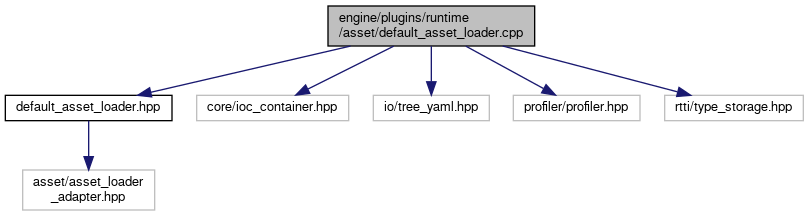
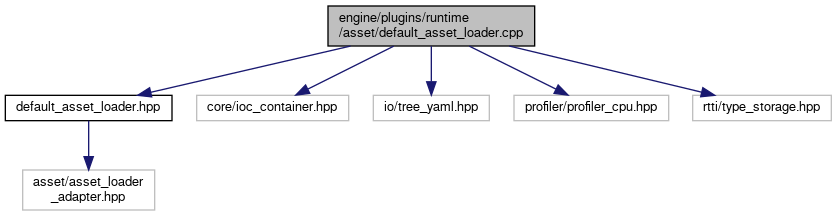
deploy: e94d178219d3c3b8b441206e57730aab20fbf8d1

diff --git a/assimp__importer_8cpp.html b/assimp__importer_8cpp.html
@@ -75,7 +75,7 @@ $(function() {
 <code>#include &quot;core/data.hpp&quot;</code><br />
 <code>#include &quot;core/log.hpp&quot;</code><br />
 <code>#include &quot;math/math_utils3d.hpp&quot;</code><br />
-<code>#include &quot;profiler/profiler.hpp&quot;</code><br />
+<code>#include &quot;profiler/profiler_cpu.hpp&quot;</code><br />
 <code>#include &lt;cassert&gt;</code><br />
 <code>#include &lt;cstring&gt;</code><br />
 <code>#include &lt;vector&gt;</code><br />
@@ -84,15 +84,15 @@ Include dependency graph for assimp_importer.cpp:</div>
 <div class="dyncontent">
 <div class="center"><img src="assimp__importer_8cpp__incl.png" border="0" usemap="#aengine_2plugins_2assimp_2assimp__importer_8cpp" alt=""/></div>
 <map name="aengine_2plugins_2assimp_2assimp__importer_8cpp" id="aengine_2plugins_2assimp_2assimp__importer_8cpp">
-<area shape="rect" title=" " alt="" coords="1187,5,1338,47"/>
+<area shape="rect" title=" " alt="" coords="1195,5,1346,47"/>
 <area shape="rect" href="assimp__importer_8hpp.html" title=" " alt="" coords="698,95,841,121"/>
 <area shape="rect" title=" " alt="" coords="865,95,965,121"/>
 <area shape="rect" title=" " alt="" coords="989,95,1081,121"/>
 <area shape="rect" title=" " alt="" coords="1105,95,1258,121"/>
-<area shape="rect" title=" " alt="" coords="1282,95,1409,121"/>
-<area shape="rect" title=" " alt="" coords="1433,95,1498,121"/>
-<area shape="rect" title=" " alt="" coords="1523,95,1584,121"/>
-<area shape="rect" title=" " alt="" coords="1608,95,1667,121"/>
+<area shape="rect" title=" " alt="" coords="1283,95,1437,121"/>
+<area shape="rect" title=" " alt="" coords="1461,95,1526,121"/>
+<area shape="rect" title=" " alt="" coords="1551,95,1612,121"/>
+<area shape="rect" title=" " alt="" coords="1636,95,1695,121"/>
 <area shape="rect" href="assimp__import__data_8hpp.html" title=" " alt="" coords="135,169,297,196"/>
 <area shape="rect" title=" " alt="" coords="322,169,459,196"/>
 <area shape="rect" title=" " alt="" coords="483,169,607,196"/>

diff --git a/assimp__asset__loader_8cpp.html b/assimp__asset__loader_8cpp.html
@@ -81,7 +81,7 @@ $(function() {
 <code>#include &quot;mesh/mesh_builder.hpp&quot;</code><br />
 <code>#include &quot;mesh/mesh_manager.hpp&quot;</code><br />
 <code>#include &quot;platform/file_system.hpp&quot;</code><br />
-<code>#include &quot;profiler/profiler.hpp&quot;</code><br />
+<code>#include &quot;profiler/profiler_cpu.hpp&quot;</code><br />
 <code>#include &lt;cassert&gt;</code><br />
 <code>#include &lt;cstring&gt;</code><br />
 <code>#include &lt;vector&gt;</code><br />
@@ -101,10 +101,10 @@ Include dependency graph for assimp_asset_loader.cpp:</div>
 <area shape="rect" title=" " alt="" coords="1607,95,1761,121"/>
 <area shape="rect" title=" " alt="" coords="1785,95,1956,121"/>
 <area shape="rect" title=" " alt="" coords="1980,95,2143,121"/>
-<area shape="rect" title=" " alt="" coords="2167,95,2294,121"/>
-<area shape="rect" title=" " alt="" coords="2318,95,2383,121"/>
-<area shape="rect" title=" " alt="" coords="2408,95,2469,121"/>
-<area shape="rect" title=" " alt="" coords="2493,95,2552,121"/>
+<area shape="rect" title=" " alt="" coords="2167,95,2321,121"/>
+<area shape="rect" title=" " alt="" coords="2345,95,2410,121"/>
+<area shape="rect" title=" " alt="" coords="2435,95,2496,121"/>
+<area shape="rect" title=" " alt="" coords="2520,95,2579,121"/>
 <area shape="rect" title=" " alt="" coords="97,169,229,211"/>
 <area shape="rect" title=" " alt="" coords="253,177,355,203"/>
 <area shape="rect" title=" " alt="" coords="379,177,479,203"/>

diff --git a/freetype__asset__loader_8cpp.html b/freetype__asset__loader_8cpp.html
@@ -75,7 +75,7 @@ $(function() {
 <code>#include &quot;core/ioc_container.hpp&quot;</code><br />
 <code>#include &quot;<a class="el" href="freetype__font_8hpp_source.html">freetype_font.hpp</a>&quot;</code><br />
 <code>#include &quot;<a class="el" href="freetype__import__data_8hpp_source.html">freetype_import_data.hpp</a>&quot;</code><br />
-<code>#include &quot;profiler/profiler.hpp&quot;</code><br />
+<code>#include &quot;profiler/profiler_cpu.hpp&quot;</code><br />
 </div><div class="textblock"><div class="dynheader">
 Include dependency graph for freetype_asset_loader.cpp:</div>
 <div class="dyncontent">
@@ -86,7 +86,7 @@ Include dependency graph for freetype_asset_loader.cpp:</div>
 <area shape="rect" title=" " alt="" coords="406,95,558,121"/>
 <area shape="rect" href="freetype__font_8hpp.html" title=" " alt="" coords="583,95,704,121"/>
 <area shape="rect" href="freetype__import__data_8hpp.html" title=" " alt="" coords="728,95,895,121"/>
-<area shape="rect" title=" " alt="" coords="919,95,1045,121"/>
+<area shape="rect" title=" " alt="" coords="919,95,1074,121"/>
 <area shape="rect" title=" " alt="" coords="5,169,137,211"/>
 <area shape="rect" title=" " alt="" coords="162,177,253,203"/>
 <area shape="rect" title=" " alt="" coords="277,177,415,203"/>

diff --git a/image__asset__loader_8cpp.html b/image__asset__loader_8cpp.html
@@ -73,7 +73,7 @@ $(function() {
 <div class="contents">
 <div class="textblock"><code>#include &quot;<a class="el" href="image__asset__loader_8hpp_source.html">image_asset_loader.hpp</a>&quot;</code><br />
 <code>#include &quot;<a class="el" href="image__import__data_8hpp_source.html">image_import_data.hpp</a>&quot;</code><br />
-<code>#include &quot;profiler/profiler.hpp&quot;</code><br />
+<code>#include &quot;profiler/profiler_cpu.hpp&quot;</code><br />
 </div><div class="textblock"><div class="dynheader">
 Include dependency graph for image_asset_loader.cpp:</div>
 <div class="dyncontent">
@@ -82,7 +82,7 @@ Include dependency graph for image_asset_loader.cpp:</div>
 <area shape="rect" title=" " alt="" coords="274,5,477,47"/>
 <area shape="rect" href="image__asset__loader_8hpp.html" title=" " alt="" coords="110,95,273,121"/>
 <area shape="rect" href="image__import__data_8hpp.html" title=" " alt="" coords="297,95,453,121"/>
-<area shape="rect" title=" " alt="" coords="477,95,604,121"/>
+<area shape="rect" title=" " alt="" coords="478,95,633,121"/>
 <area shape="rect" title=" " alt="" coords="5,169,137,211"/>
 <area shape="rect" title=" " alt="" coords="161,177,264,203"/>
 <area shape="rect" title=" " alt="" coords="309,169,442,211"/>

diff --git a/default__asset__loader_8cpp.html b/default__asset__loader_8cpp.html
@@ -74,7 +74,7 @@ $(function() {
 <div class="textblock"><code>#include &quot;<a class="el" href="default__asset__loader_8hpp_source.html">default_asset_loader.hpp</a>&quot;</code><br />
 <code>#include &quot;core/ioc_container.hpp&quot;</code><br />
 <code>#include &quot;io/tree_yaml.hpp&quot;</code><br />
-<code>#include &quot;profiler/profiler.hpp&quot;</code><br />
+<code>#include &quot;profiler/profiler_cpu.hpp&quot;</code><br />
 <code>#include &quot;rtti/type_storage.hpp&quot;</code><br />
 </div><div class="textblock"><div class="dynheader">
 Include dependency graph for default_asset_loader.cpp:</div>
@@ -85,8 +85,8 @@ Include dependency graph for default_asset_loader.cpp:</div>
 <area shape="rect" href="default__asset__loader_8hpp.html" title=" " alt="" coords="5,95,172,121"/>
 <area shape="rect" title=" " alt="" coords="197,95,349,121"/>
 <area shape="rect" title=" " alt="" coords="373,95,489,121"/>
-<area shape="rect" title=" " alt="" coords="513,95,640,121"/>
-<area shape="rect" title=" " alt="" coords="665,95,803,121"/>
+<area shape="rect" title=" " alt="" coords="514,95,669,121"/>
+<area shape="rect" title=" " alt="" coords="693,95,831,121"/>
 <area shape="rect" title=" " alt="" coords="23,169,155,211"/>
 </map>
 </div>

diff --git a/wav__asset__loader_8cpp.html b/wav__asset__loader_8cpp.html
@@ -73,7 +73,7 @@ $(function() {
 <div class="contents">
 <div class="textblock"><code>#include &quot;<a class="el" href="wav__asset__loader_8hpp_source.html">wav_asset_loader.hpp</a>&quot;</code><br />
 <code>#include &quot;<a class="el" href="wav__import__data_8hpp_source.html">asset/wav_import_data.hpp</a>&quot;</code><br />
-<code>#include &quot;profiler/profiler.hpp&quot;</code><br />
+<code>#include &quot;profiler/profiler_cpu.hpp&quot;</code><br />
 </div><div class="textblock"><div class="dynheader">
 Include dependency graph for wav_asset_loader.cpp:</div>
 <div class="dyncontent">
@@ -82,7 +82,7 @@ Include dependency graph for wav_asset_loader.cpp:</div>
 <area shape="rect" title=" " alt="" coords="308,5,499,47"/>
 <area shape="rect" href="wav__asset__loader_8hpp.html" title=" " alt="" coords="137,95,288,121"/>
 <area shape="rect" href="wav__import__data_8hpp.html" title=" " alt="" coords="313,95,494,121"/>
-<area shape="rect" title=" " alt="" coords="519,95,645,121"/>
+<area shape="rect" title=" " alt="" coords="518,95,673,121"/>
 <area shape="rect" title=" " alt="" coords="5,169,137,211"/>
 <area shape="rect" title=" " alt="" coords="161,169,296,211"/>
 <area shape="rect" title=" " alt="" coords="337,169,470,211"/>

diff --git a/freetype__font_8cpp.html b/freetype__font_8cpp.html
@@ -77,7 +77,7 @@ $(function() {
 <code>#include &quot;grc/image.hpp&quot;</code><br />
 <code>#include &quot;grc/texture.hpp&quot;</code><br />
 <code>#include &quot;platform/file_system.hpp&quot;</code><br />
-<code>#include &quot;profiler/profiler.hpp&quot;</code><br />
+<code>#include &quot;profiler/profiler_cpu.hpp&quot;</code><br />
 <code>#include &lt;freetype/freetype.h&gt;</code><br />
 </div><div class="textblock"><div class="dynheader">
 Include dependency graph for freetype_font.cpp:</div>
@@ -91,8 +91,8 @@ Include dependency graph for freetype_font.cpp:</div>
 <area shape="rect" title=" " alt="" coords="918,95,1070,121"/>
 <area shape="rect" title=" " alt="" coords="1095,95,1197,121"/>
 <area shape="rect" title=" " alt="" coords="1222,95,1329,121"/>
-<area shape="rect" title=" " alt="" coords="1353,95,1480,121"/>
-<area shape="rect" title=" " alt="" coords="1505,95,1633,121"/>
+<area shape="rect" title=" " alt="" coords="1353,95,1507,121"/>
+<area shape="rect" title=" " alt="" coords="1531,95,1659,121"/>
 <area shape="rect" title=" " alt="" coords="607,169,744,196"/>
 <area shape="rect" title=" " alt="" coords="5,169,116,196"/>
 <area shape="rect" title=" " alt="" coords="141,169,279,196"/>

diff --git a/texture__asset__loader_8cpp.html b/texture__asset__loader_8cpp.html
@@ -80,7 +80,7 @@ $(function() {
 <code>#include &quot;grc/texture.hpp&quot;</code><br />
 <code>#include &quot;grc/texture_manager.hpp&quot;</code><br />
 <code>#include &quot;grc/texture_resize.hpp&quot;</code><br />
-<code>#include &quot;profiler/profiler.hpp&quot;</code><br />
+<code>#include &quot;profiler/profiler_cpu.hpp&quot;</code><br />
 </div><div class="textblock"><div class="dynheader">
 Include dependency graph for texture_asset_loader.cpp:</div>
 <div class="dyncontent">
@@ -96,7 +96,7 @@ Include dependency graph for texture_asset_loader.cpp:</div>
 <area shape="rect" title=" " alt="" coords="1363,102,1465,129"/>
 <area shape="rect" title=" " alt="" coords="1489,102,1653,129"/>
 <area shape="rect" title=" " alt="" coords="1677,102,1825,129"/>
-<area shape="rect" title=" " alt="" coords="1849,102,1976,129"/>
+<area shape="rect" title=" " alt="" coords="1850,102,2005,129"/>
 <area shape="rect" title=" " alt="" coords="5,184,137,225"/>
 <area shape="rect" title=" " alt="" coords="161,191,277,218"/>
 <area shape="rect" title=" " alt="" coords="301,191,439,218"/>

diff --git a/shader__asset__loader_8cpp.html b/shader__asset__loader_8cpp.html
@@ -77,7 +77,7 @@ $(function() {
 <code>#include &quot;grc/shader_file.hpp&quot;</code><br />
 <code>#include &quot;grc/shader_manager.hpp&quot;</code><br />
 <code>#include &quot;io/tree_yaml.hpp&quot;</code><br />
-<code>#include &quot;profiler/profiler.hpp&quot;</code><br />
+<code>#include &quot;profiler/profiler_cpu.hpp&quot;</code><br />
 </div><div class="textblock"><div class="dynheader">
 Include dependency graph for shader_asset_loader.cpp:</div>
 <div class="dyncontent">
@@ -90,7 +90,7 @@ Include dependency graph for shader_asset_loader.cpp:</div>
 <area shape="rect" title=" " alt="" coords="429,95,559,121"/>
 <area shape="rect" title=" " alt="" coords="584,95,748,121"/>
 <area shape="rect" title=" " alt="" coords="772,95,888,121"/>
-<area shape="rect" title=" " alt="" coords="912,95,1039,121"/>
+<area shape="rect" title=" " alt="" coords="913,95,1067,121"/>
 <area shape="rect" title=" " alt="" coords="5,169,137,211"/>
 </map>
 </div>
